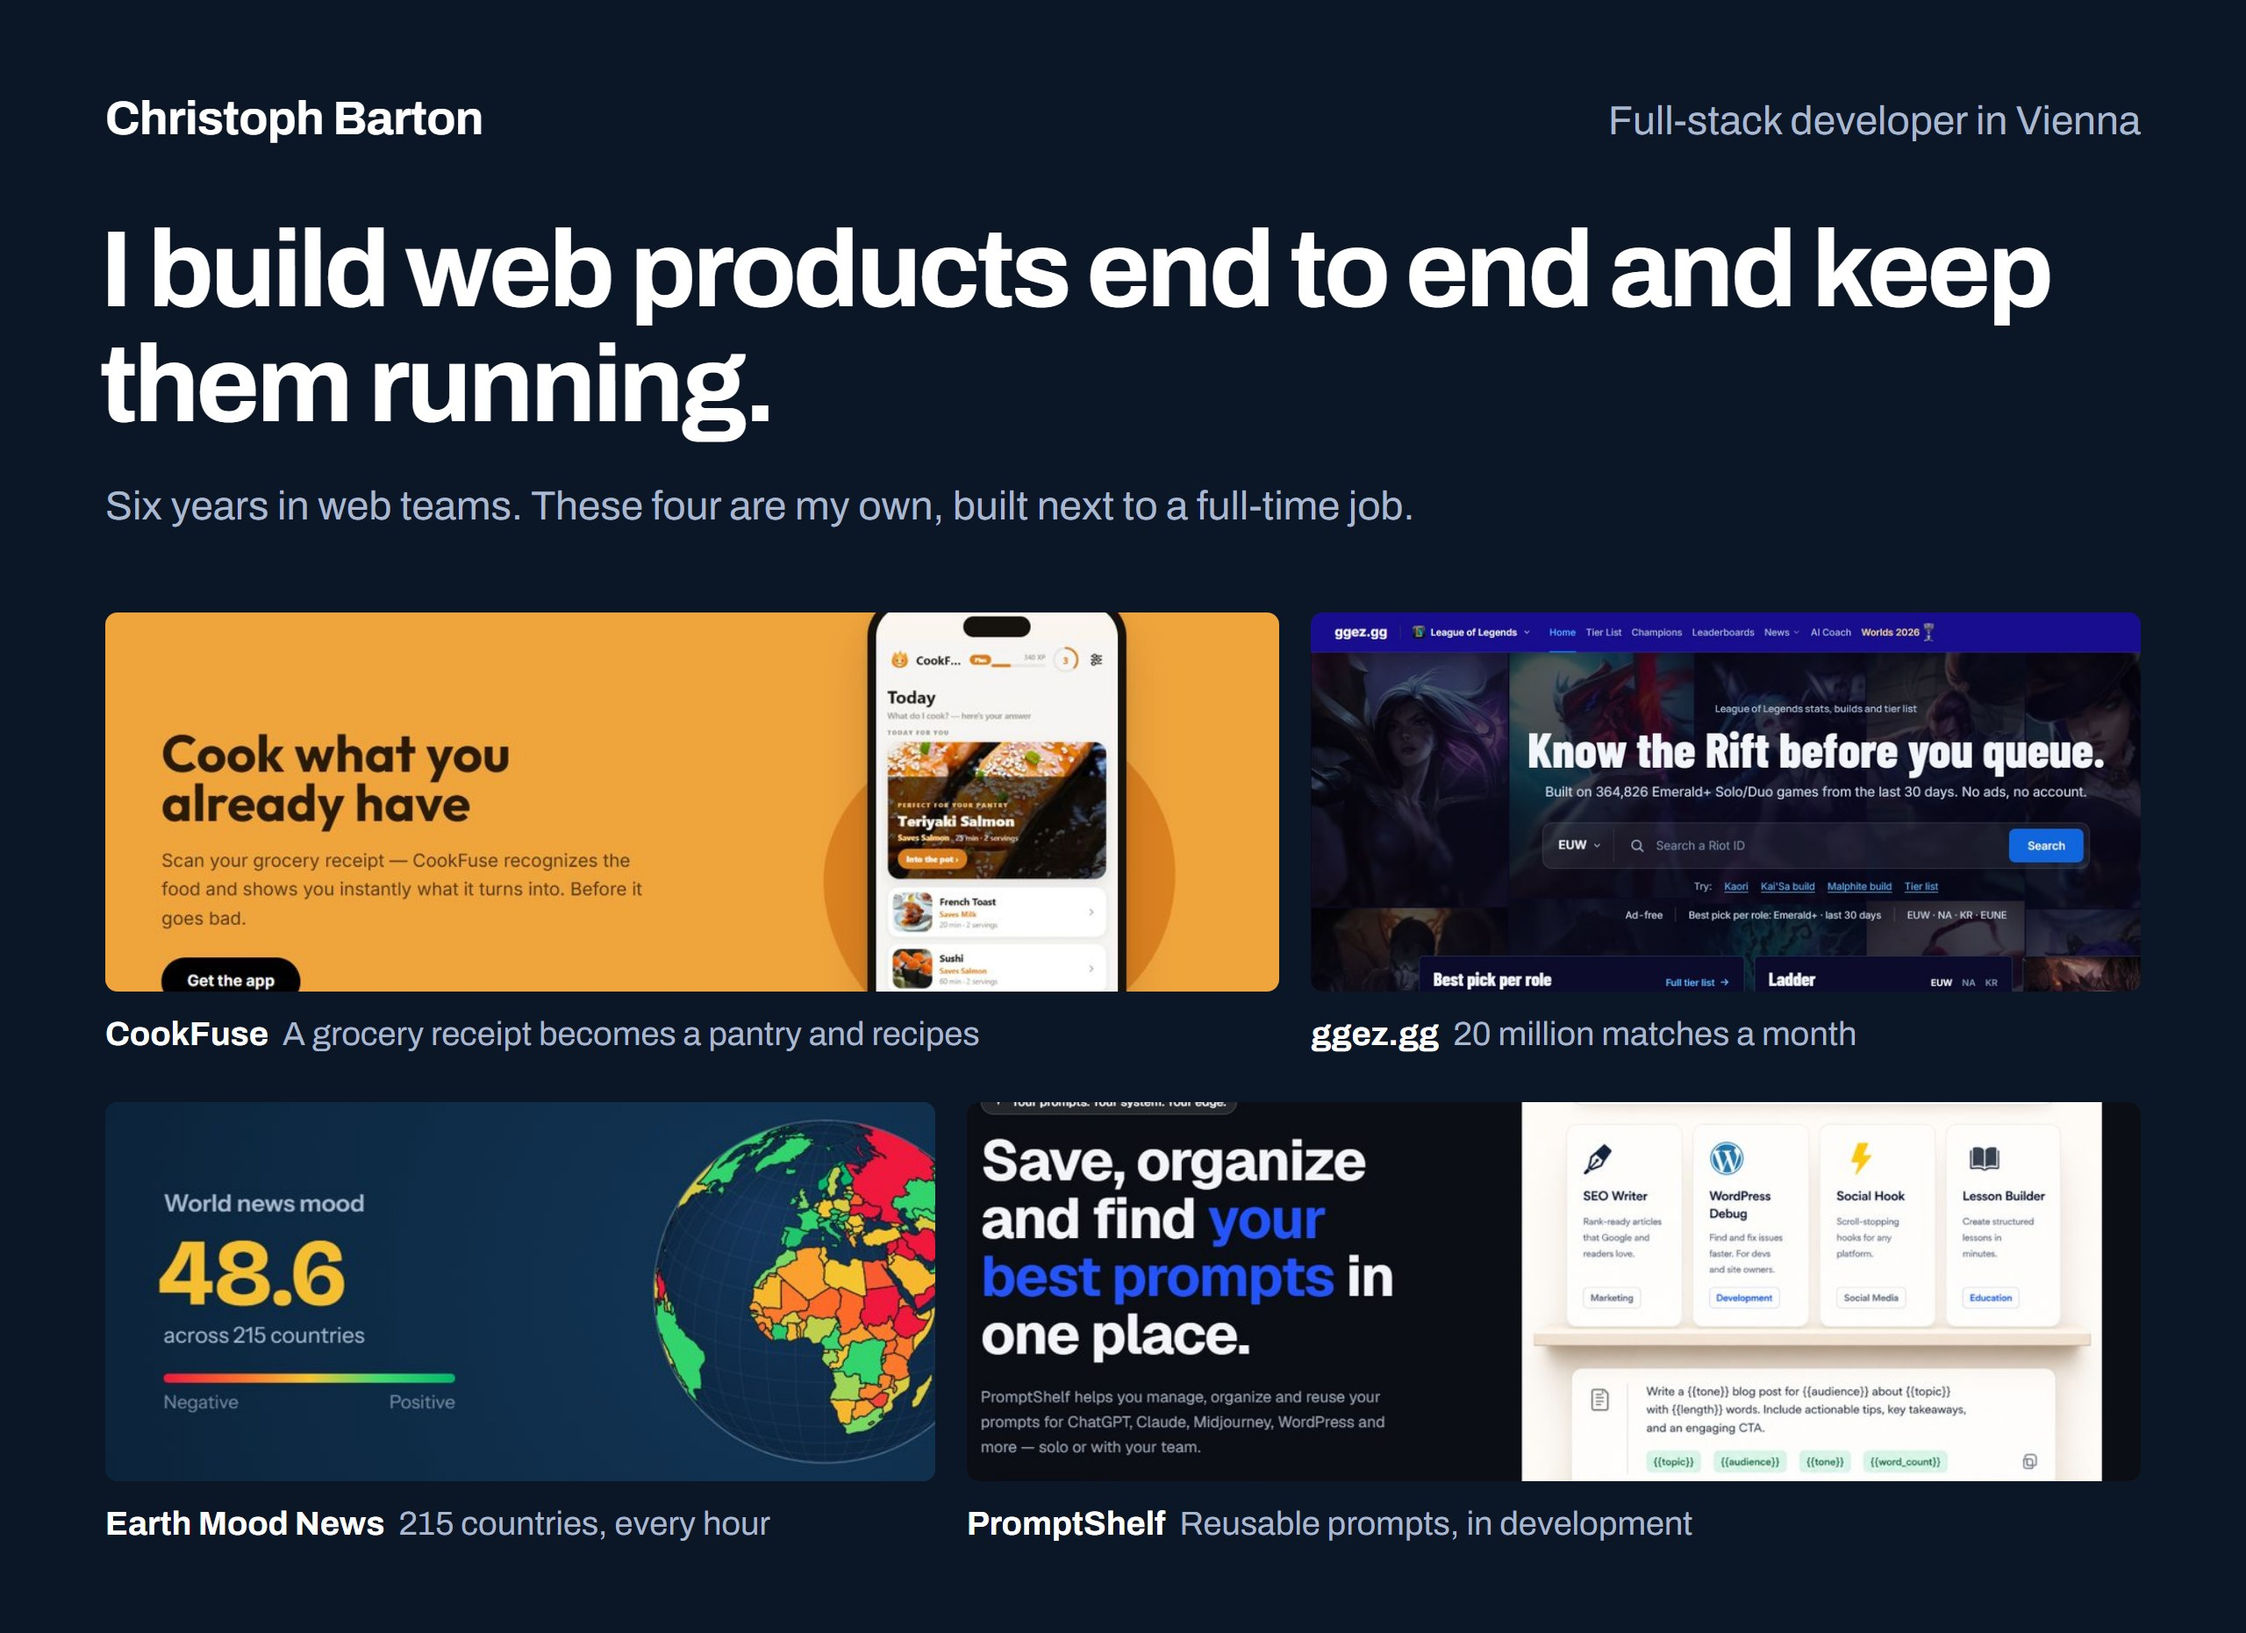
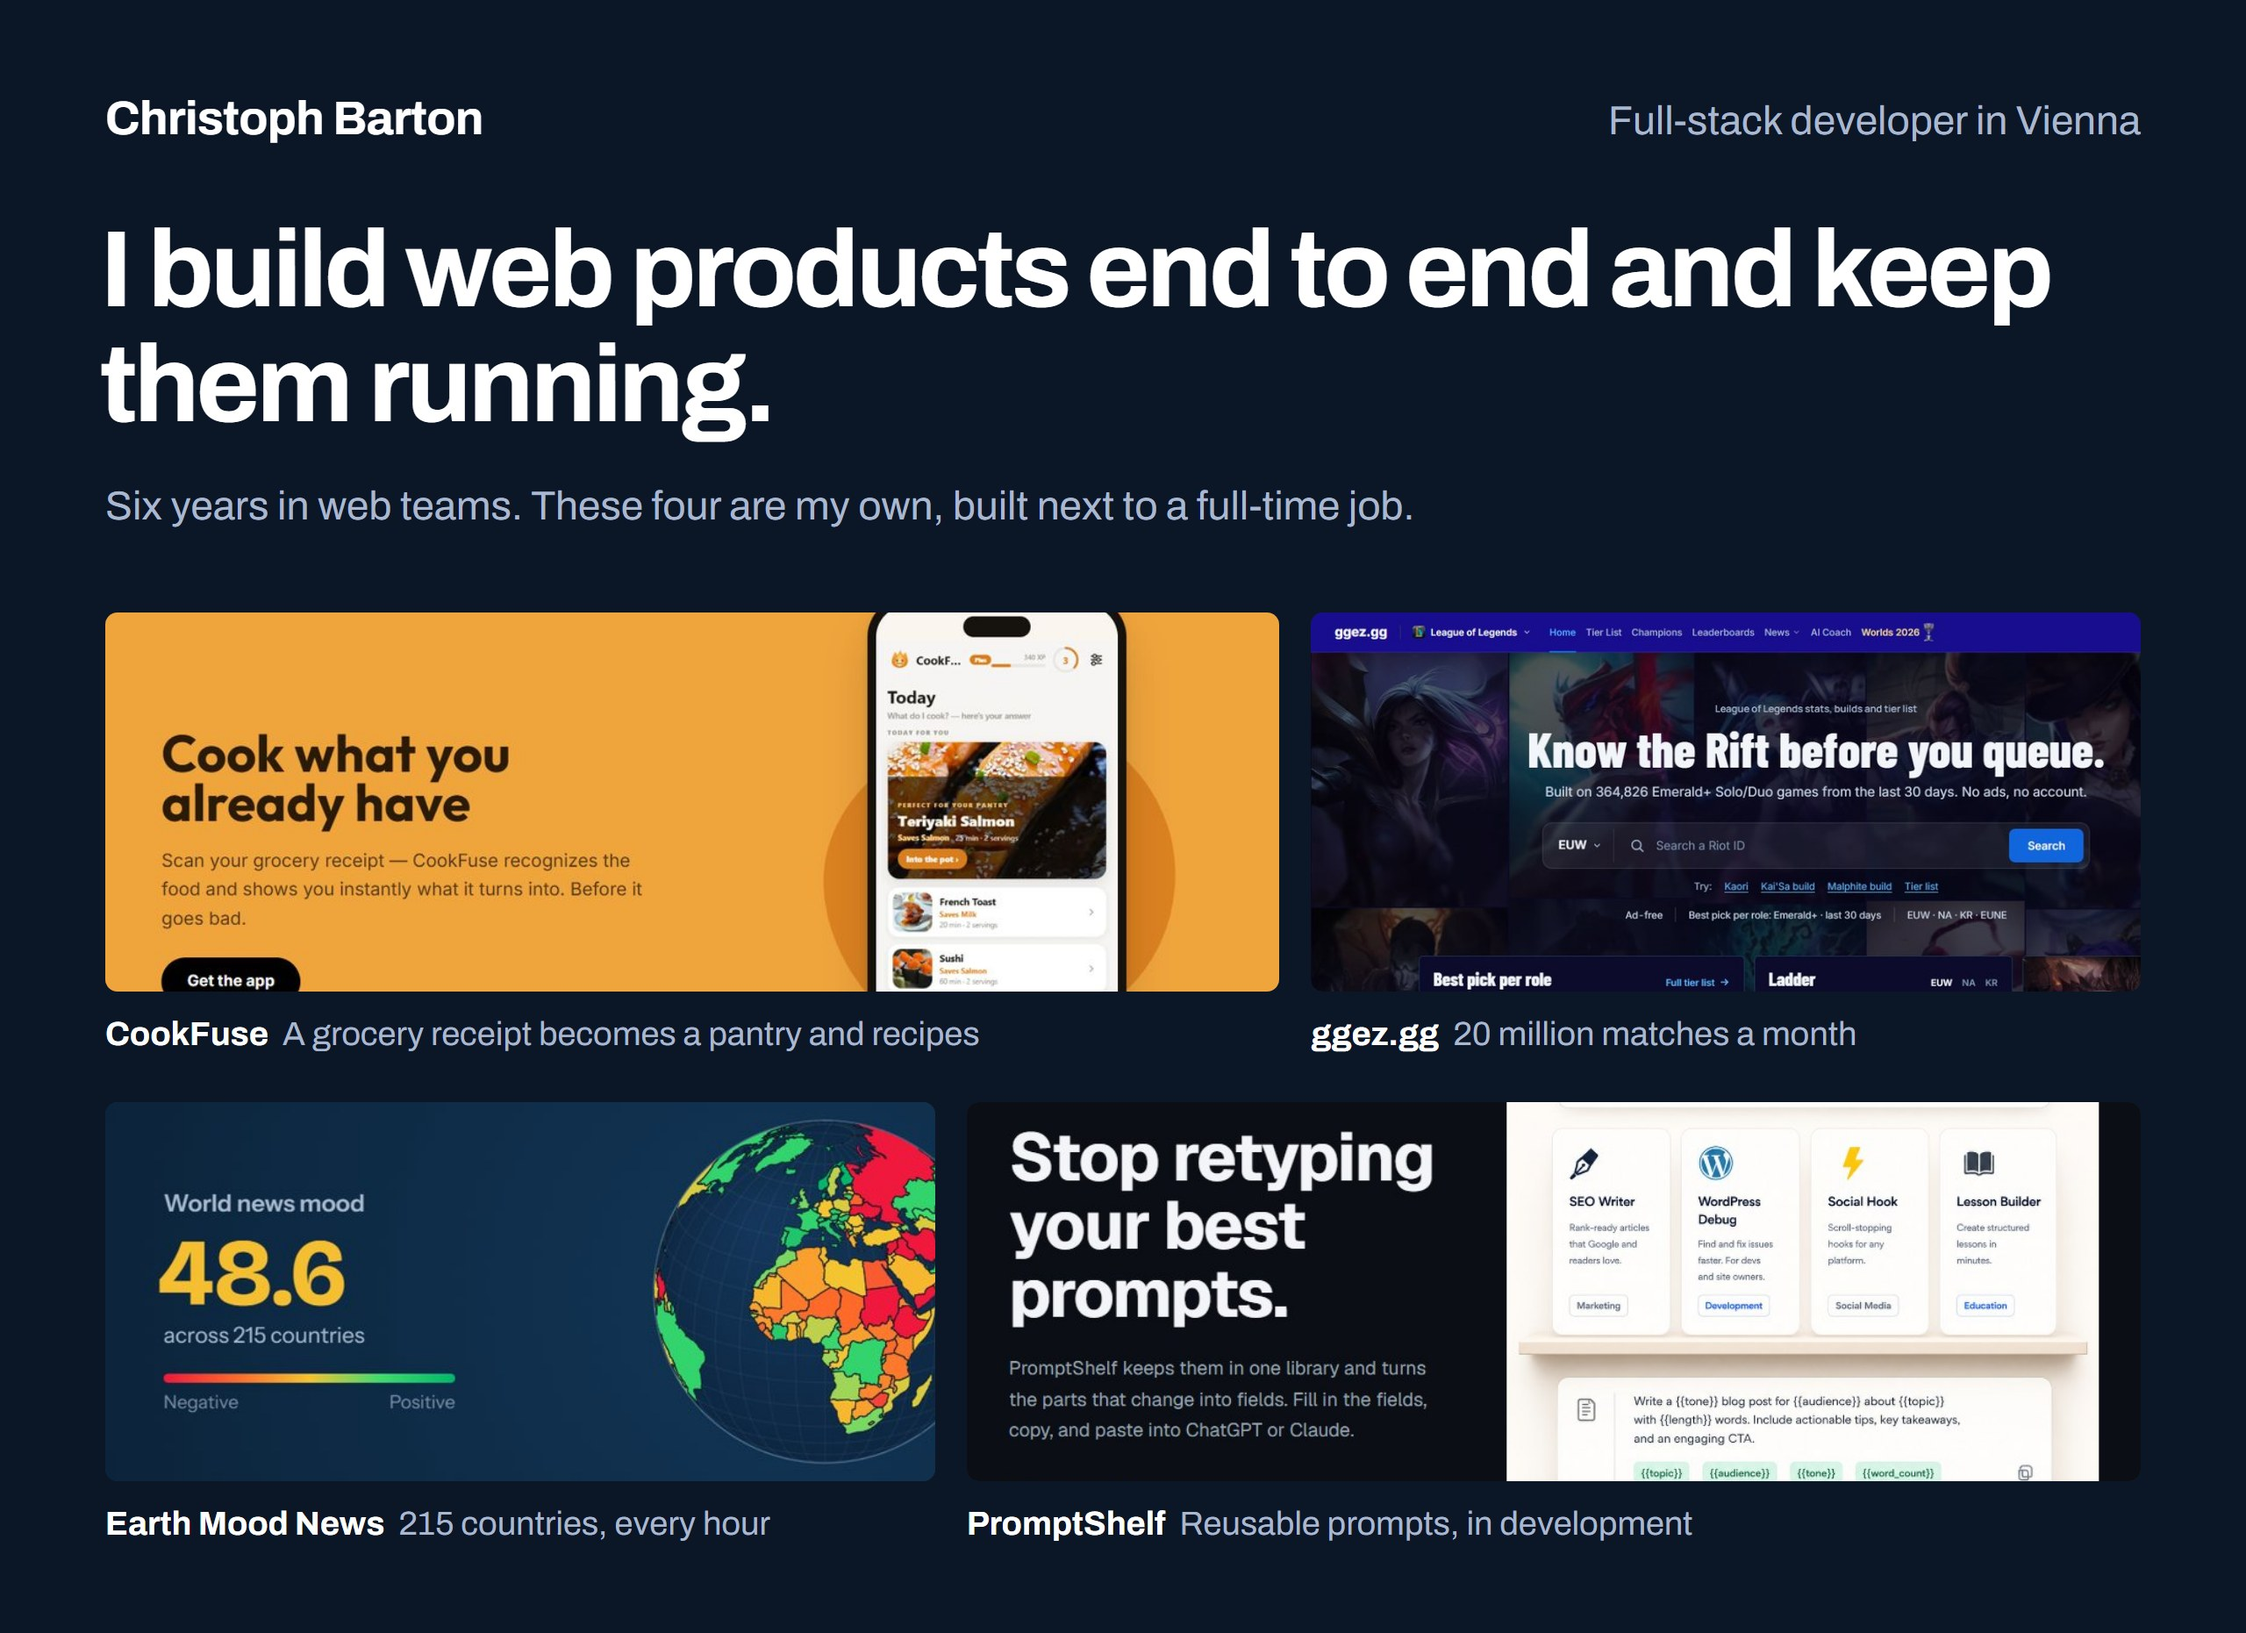
Profile: PromptShelf pictures show the new hero

Changed region(s): [[0.4375, 0.6545, 0.9375, 0.9038]]

diff --git a/README.md b/README.md
@@ -1,4 +1,4 @@
-<a href="https://christophbarton.com"><img src="assets/head.jpg" width="100%" alt="Christoph Barton, full-stack developer in Vienna. I build web products end to end and keep them running. Six years in web teams. Four of my own products, built next to a full-time job: CookFuse (a grocery receipt becomes a pantry and recipes), ggez.gg (20 million matches a month), Earth Mood News (215 countries, every hour) and PromptShelf (reusable prompts, in development)." /></a>
+<a href="https://christophbarton.com"><img src="assets/head.jpg?v=2" width="100%" alt="Christoph Barton, full-stack developer in Vienna. I build web products end to end and keep them running. Six years in web teams. Four of my own products, built next to a full-time job: CookFuse (a grocery receipt becomes a pantry and recipes), ggez.gg (20 million matches a month), Earth Mood News (215 countries, every hour) and PromptShelf (reusable prompts, in development)." /></a>
 
 I'm a full-stack developer in Vienna. For six years I have built websites and web applications in small teams. Next to my job I build my own products and keep them running. Most of my code is in private repositories, so this page describes the work instead of linking to it.
 
@@ -21,7 +21,7 @@ Two smaller tools are public: **[Context Grabber](https://github.com/ChristophBa
 <a href="https://ggez.gg"><img src="assets/card-ggez-top.svg" width="100%" alt="ggez.gg: League of Legends stats, builds, tier lists and an AI coach" /></a>
 <a href="https://cookfuse.app"><img src="assets/card-cookfuse-shot.svg" width="100%" alt="CookFuse: receipt to pantry to recipes" /></a>
 <a href="https://earth-mood-news.vercel.app"><img src="assets/card-earthmood-turn.svg" width="100%" alt="Earth Mood News: a rotating globe coloured by the tone of each country's news" /></a>
-<img src="assets/card-promptshelf-shot.svg" width="100%" alt="PromptShelf: reusable prompts and mini-tools (private repository)" />
+<img src="assets/card-promptshelf-shot.svg?v=2" width="100%" alt="PromptShelf: reusable prompts and mini-tools (private repository)" />
 <a href="https://sts2-hub.pages.dev"><img src="assets/card-sts2-shot.svg" width="100%" alt="STS2 Hub: fan-made Slay the Spire 2 hub with deck builder, card database and guides" /></a>
 <a href="https://github.com/ChristophBarton1/Context-Finder"><img src="assets/card-context-grabber.svg?v=3" width="100%" alt="Context Grabber: one-click bug reports for AI-built apps" /></a>
 <a href="https://github.com/ChristophBarton1/Multi-Agent-for-Terminal-Claude-Open-Ai-Grok"><img src="assets/card-multi-agent.svg?v=3" width="100%" alt="Multi-Agent Terminal: Claude, GPT and Grok in parallel" /></a>
